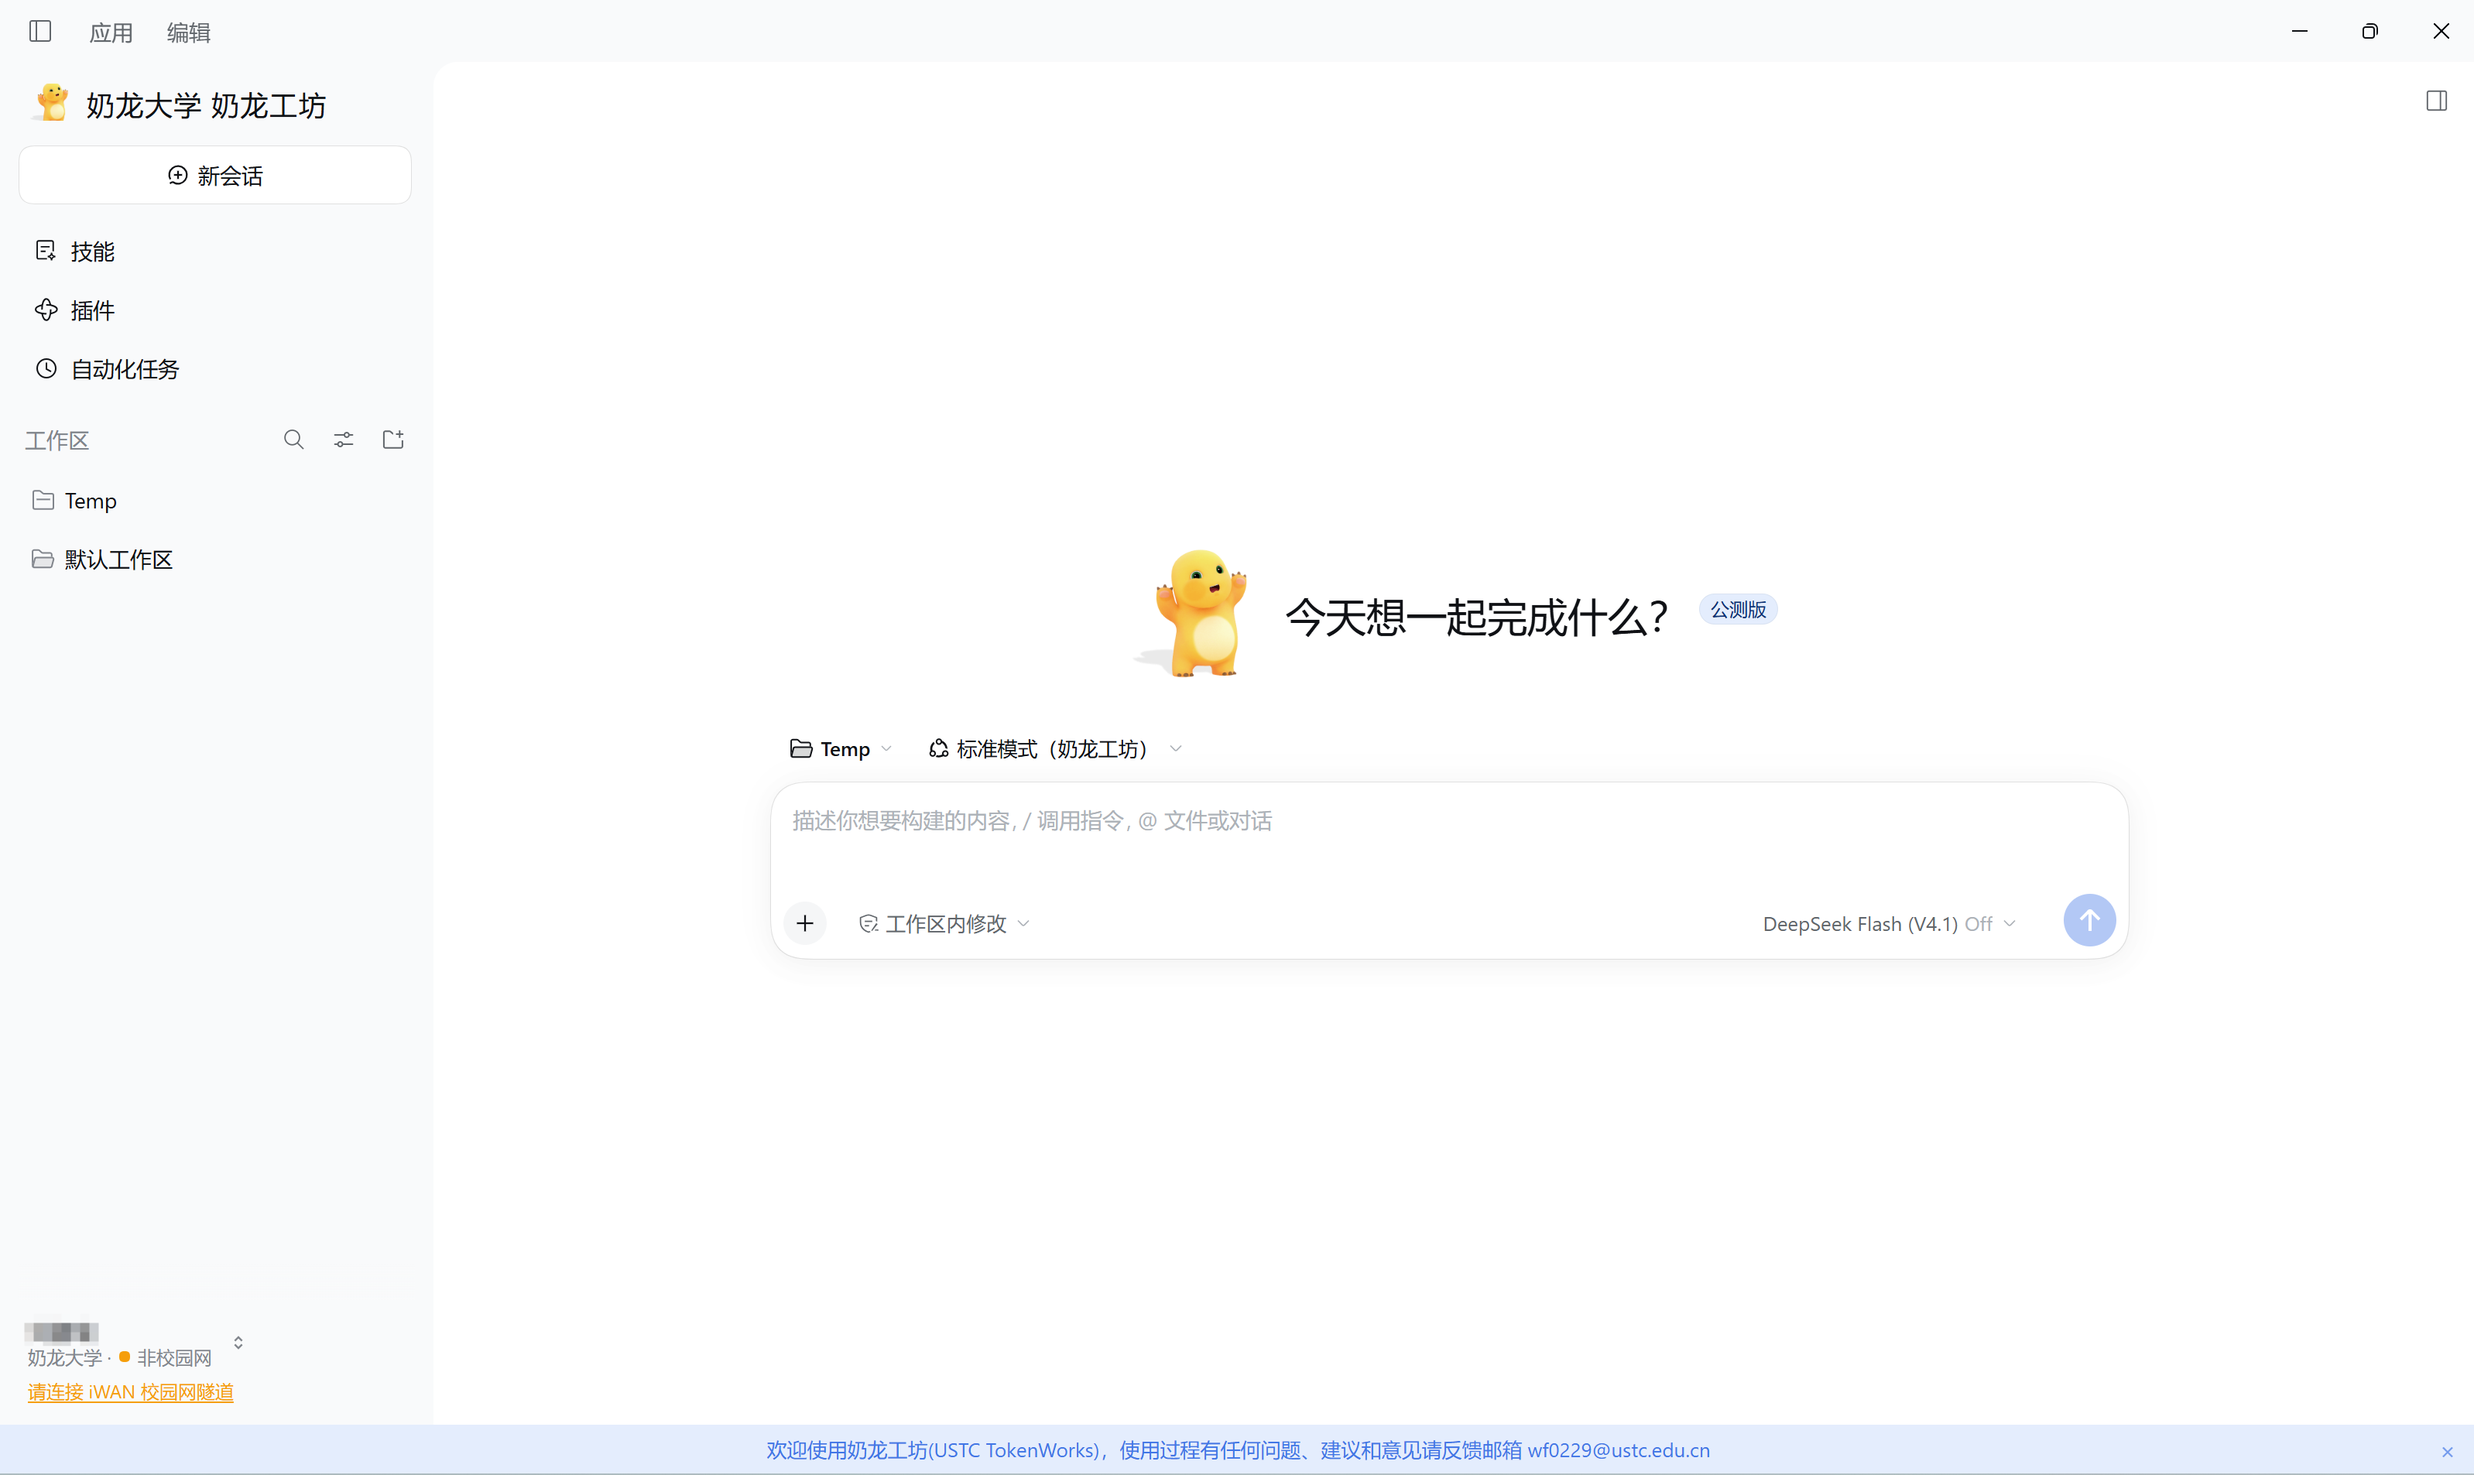
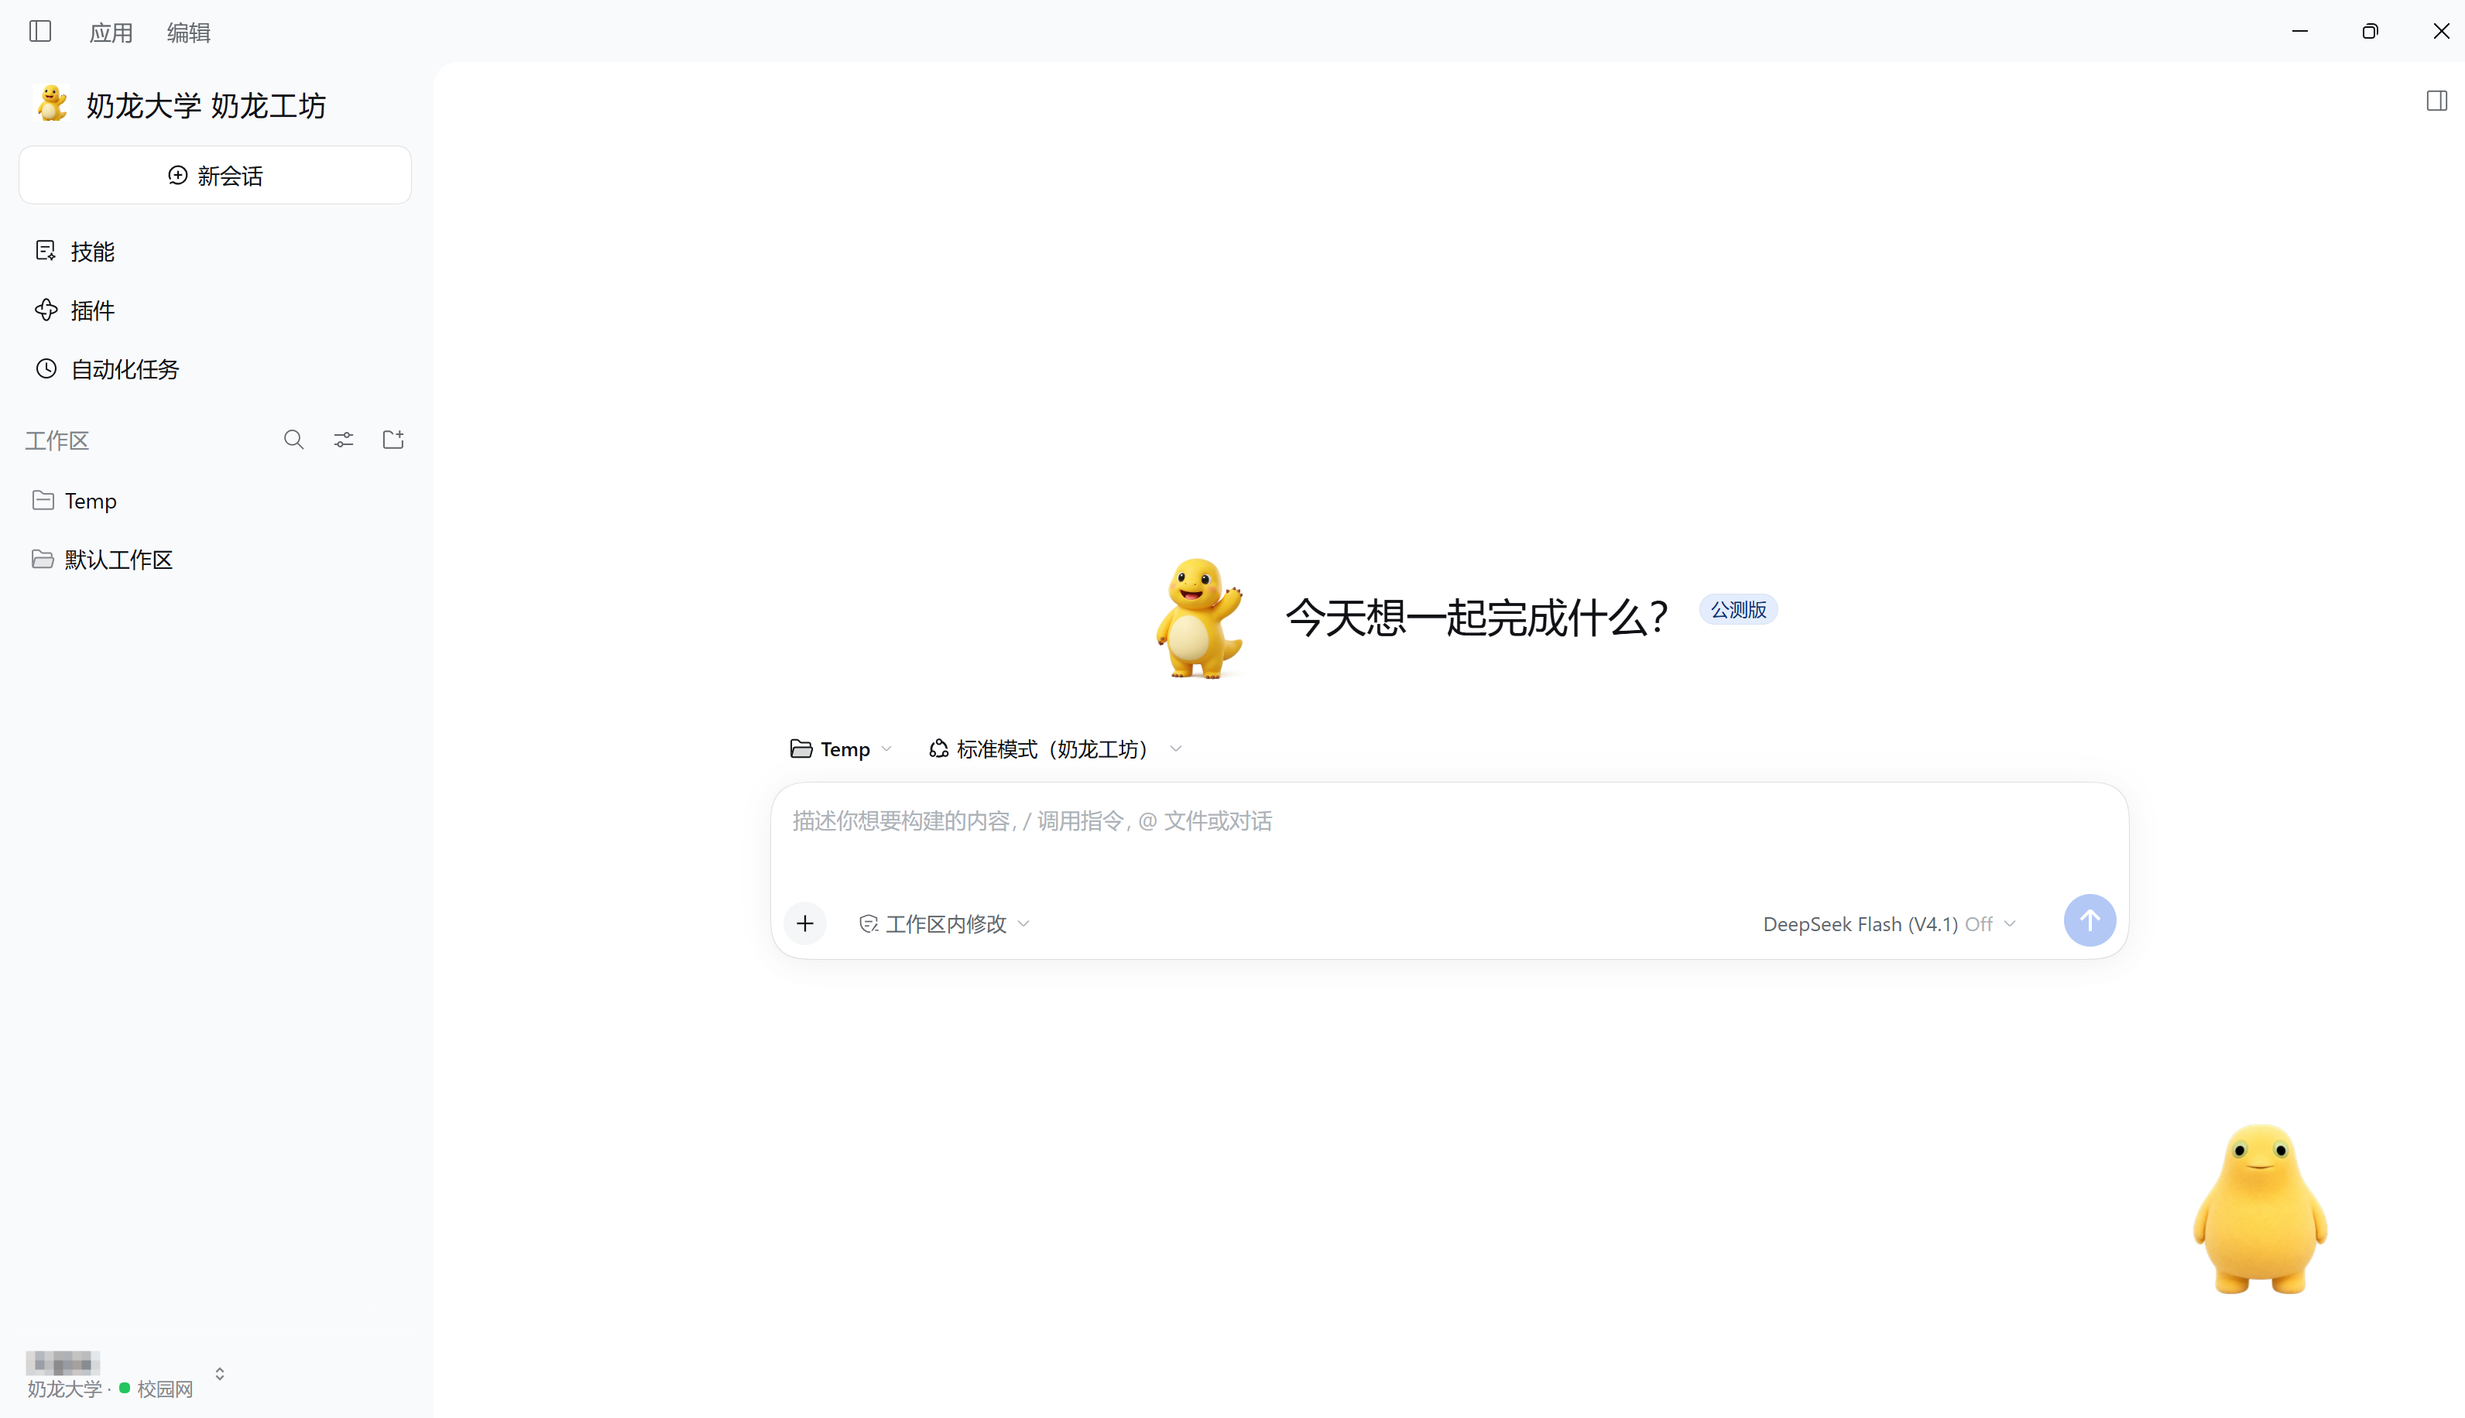
Refresh Pages brand screenshot from user attachment

diff --git a/site/index.html b/site/index.html
@@ -1,5 +1,5 @@
 <!doctype html>
 <html lang="zh-CN"><head><meta charset="utf-8"><meta name="viewport" content="width=device-width,initial-scale=1"><title>奶龙工坊 · 组件预览</title><link rel="stylesheet" href="preview.css"><script type="module" src="preview.js"></script></head>
 <body><header><span class="eyebrow">TOKENWORKS · 本地个性化</span><h1>奶龙工坊</h1><p>一个品牌插件，三款内置桌宠。按需安装，不默认全选。</p><nav><a href="#brand">品牌</a><a href="#nailong-zhengyici">Zhengyici</a><a href="#nailong-erich207">erich207</a><a href="#nailong-mosterpath">mosterpath</a></nav></header><main>
-<section id="brand"><h2>品牌插件</h2><p>侧栏、首页、关于页及可识别品牌图替换；不改聊天内容与认证配置。</p><a href="assets/brand-preview.png"><img class="brand-preview" src="assets/brand-preview.png" alt="用户提供的奶龙工坊应用截图"></a><p class="note">截图为旧版图标；当前打包使用用户指定的挥手奶龙图，保留白底。</p><img class="brand-icon" src="assets/nailong.png" alt="当前品牌图标"></section>
+<section id="brand"><h2>品牌插件</h2><p>侧栏、首页、关于页及可识别品牌图替换；不改聊天内容与认证配置。</p><a href="assets/brand-preview.png"><img class="brand-preview" src="assets/brand-preview.png" alt="用户提供的奶龙工坊应用截图"></a><p class="note">用户提供的实际应用截图：挥手奶龙品牌与桌面宠物。品牌图标保留原图白底。</p><img class="brand-icon" src="assets/nailong.png" alt="当前品牌图标"></section>
 <div id="pets"></div><footer>素材与角色权利归相应权利人；来源与修改记录随项目提供。此页面仅预览，不会安装或修改 TokenWorks。</footer></main></body></html>

diff --git a/README.md b/README.md
@@ -13,7 +13,7 @@
 | `nailong-erich207` | 精灵图动画；部分状态复用 | [erich207/nailong-codex-pet](https://github.com/erich207/nailong-codex-pet) | [![erich207 待机](site/assets/nailong-erich207.gif)](https://twinjades.github.io/tokenworks-nailong/#nailong-erich207) |
 | `nailong-mosterpath` | 静态表情与笑 GIF 转换动画，无声音；保留原图背景 | [mosterpath/pet-nailong](https://github.com/mosterpath/pet-nailong) | [![mosterpath 待机](site/assets/nailong-mosterpath.gif)](https://twinjades.github.io/tokenworks-nailong/#nailong-mosterpath) |
 
-品牌截图由用户提供，展示旧版图标；实际打包图标为用户选定的白底挥手奶龙。桌宠进入现有 **设置 → 桌面宠物** 图库，不运行额外的桌宠程序。mosterpath 待机素材为静态图，缩略 GIF 不代表具有原生逐帧待机动作。
+品牌截图由用户提供，展示当前挥手奶龙品牌及桌面宠物。桌宠进入现有 **设置 → 桌面宠物** 图库，不运行额外的桌宠程序。mosterpath 待机素材为静态图，缩略 GIF 不代表具有原生逐帧待机动作。
 
 ## 安装与卸载
 

diff --git a/assets/NOTICE.md b/assets/NOTICE.md
@@ -2,7 +2,7 @@
 
[1 lines of base64/hex data omitted]
 
-`site/assets/brand-preview.png`：用户提供的 TokenWorks 应用截图，展示旧版品牌图标，保持原图不重画。
[1 lines of base64/hex data omitted]
 
 `site/runtime/skin.js`、`pet-state.js` 来自本机 TokenWorks `@eduwork/dsh-desktop-pet/lib/`，保留 `site/runtime/LICENSE`；用于与宿主保持完全相同的清单解析和动画时序规则。
 
